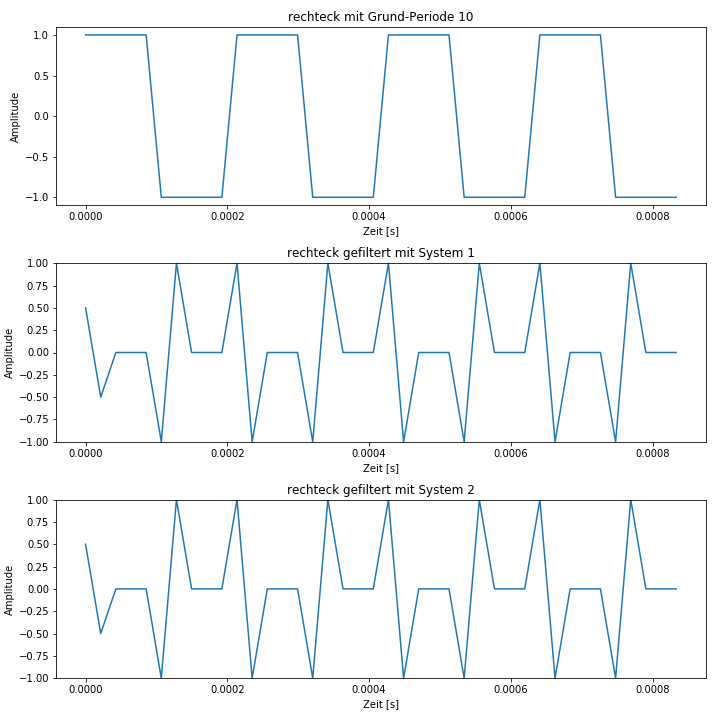
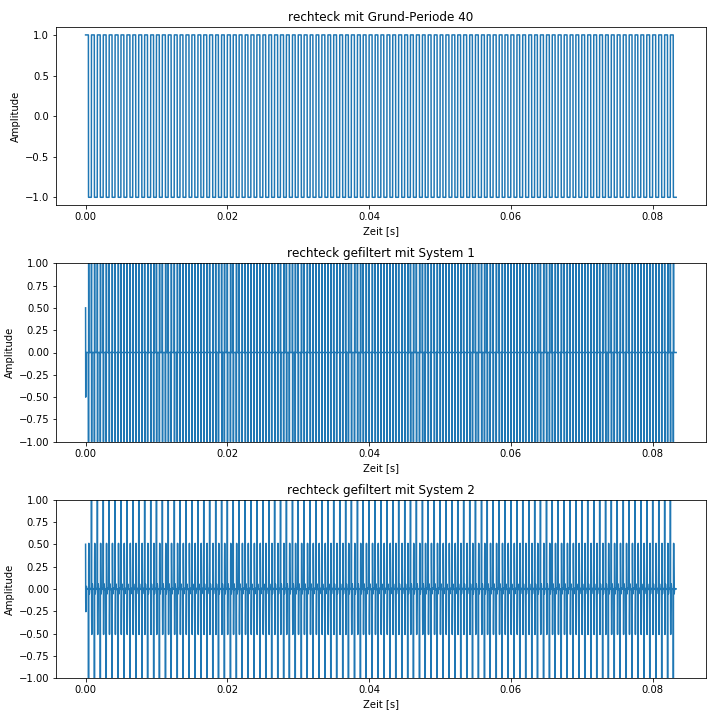
minor changes

diff --git a/aufgabe_2_filter_signals.py b/aufgabe_2_filter_signals.py
@@ -84,14 +84,14 @@ sprache_filtered_system_2 = scipy.signal.lfilter(b2,a2,sprache)
 
 #play audio one after the other
 #uncomment to play the audio
-sd.play(musik_filtered_system_1, musik_sr)
-sd.wait()
-sd.play(musik_filtered_system_2, musik_sr)
-sd.wait()
-sd.play(sprache_filtered_system_1, sprache_sr)
-sd.wait()
-sd.play(sprache_filtered_system_2, sprache_sr)
-sd.wait()
+#sd.play(musik_filtered_system_1, musik_sr)
+#sd.wait()
+#sd.play(musik_filtered_system_2, musik_sr)
+#sd.wait()
+#sd.play(sprache_filtered_system_1, sprache_sr)
+#sd.wait()
+#sd.play(sprache_filtered_system_2, sprache_sr)
+#sd.wait()
 
 
 #%%plot Musik
@@ -145,16 +145,16 @@ plt.savefig('sprache_filtered.png')
 #%%sinus
 
 amplitude = 1
-sr = 48000
-grundperiode = 10
+sr = 16000
+grundperiode = 40
 #signallaenge in sekunden fuer 4 perioden
-signallaenge = (4*grundperiode)/sr
+signallaenge = (100*grundperiode)/sr
 
 signale_zeit = np.linspace(0,signallaenge, num=signallaenge*sr)
 
 sinus = signalgenerator("sinus", amplitude, sr, grundperiode, signallaenge)
 sinus_gefiltert_system1 = scipy.signal.lfilter(b1,a1,sinus)
-sinus_gefiltert_system2 = scipy.signal.lfilter(b1,a1,sinus)
+sinus_gefiltert_system2 = scipy.signal.lfilter(b2,a2,sinus)
 
 plt.figure(figsize=(10,10))
 plt.subplot(3,1,1)
@@ -183,7 +183,7 @@ plt.savefig('aufgabe_2_sinus_filtered.png')
 
 rechteck = signalgenerator("rechteck", amplitude, sr, grundperiode, signallaenge)
 rechteck_gefiltert_system1 = scipy.signal.lfilter(b1,a1,rechteck)
-rechteck_gefiltert_system2 = scipy.signal.lfilter(b1,a1,rechteck)
+rechteck_gefiltert_system2 = scipy.signal.lfilter(b2,a2,rechteck)
 
 plt.figure(figsize=(10,10))
 plt.subplot(3,1,1)
@@ -212,7 +212,7 @@ plt.savefig('aufgabe_2_rechteck_filtered.png')
 
 saegezahn = signalgenerator("saegezahn", amplitude, sr, grundperiode, signallaenge)
 saegezahn_gefiltert_system1 = scipy.signal.lfilter(b1,a1,saegezahn)
-saegezahn_gefiltert_system2 = scipy.signal.lfilter(b1,a1,saegezahn)
+saegezahn_gefiltert_system2 = scipy.signal.lfilter(b2,a2,saegezahn)
 
 plt.figure(figsize=(10,10))
 plt.subplot(3,1,1)
@@ -241,7 +241,7 @@ plt.savefig('aufgabe_2_saegezahn_filtered.png')
 
 dreieck = signalgenerator("dreieck", amplitude, sr, grundperiode, signallaenge)
 dreieck_gefiltert_system1 = scipy.signal.lfilter(b1,a1,dreieck)
-dreieck_gefiltert_system2 = scipy.signal.lfilter(b1,a1,dreieck)
+dreieck_gefiltert_system2 = scipy.signal.lfilter(b2,a2,dreieck)
 
 plt.figure(figsize=(10,10))
 plt.subplot(3,1,1)
@@ -265,3 +265,50 @@ plt.ylim([-1,1])
 plt.title('dreieck gefiltert mit System 2')
 plt.tight_layout()
 plt.savefig('aufgabe_2_dreieck_filtered.png')
+
+
+#%%play audio
+
+sinus = signalgenerator("sinus", amplitude, sr, grundperiode, 2)
+sinus_gefiltert_system1 = scipy.signal.lfilter(b1,a1,sinus)
+sinus_gefiltert_system2 = scipy.signal.lfilter(b2,a2,sinus)
+
+dreieck = signalgenerator("dreieck", amplitude, sr, grundperiode, 2)
+dreieck_gefiltert_system1 = scipy.signal.lfilter(b1,a1,dreieck)
+dreieck_gefiltert_system2 = scipy.signal.lfilter(b2,a2,dreieck)
+
+saegezahn = signalgenerator("saegezahn", amplitude, sr, grundperiode, 2)
+saegezahn_gefiltert_system1 = scipy.signal.lfilter(b1,a1,saegezahn)
+saegezahn_gefiltert_system2 = scipy.signal.lfilter(b2,a2,saegezahn)
+
+rechteck = signalgenerator("rechteck", amplitude, sr, grundperiode, 2)
+rechteck_gefiltert_system1 = scipy.signal.lfilter(b1,a1,rechteck)
+rechteck_gefiltert_system2 = scipy.signal.lfilter(b2,a2,rechteck)
+
+
+#play audio one after the other
+#uncomment to play the audio
+#sd.play(sinus, sr)
+#sd.wait()
+#sd.play(sinus_gefiltert_system1, sr)
+#sd.wait()
+#sd.play(sinus_gefiltert_system2, sr)
+#sd.wait()
+#sd.play(dreieck, sr)
+#sd.wait()
+#sd.play(dreieck_gefiltert_system1, sr)
+#sd.wait()
+#sd.play(dreieck_gefiltert_system2, sr)
+#sd.wait()
+#sd.play(saegezahn, sr)
+#sd.wait()
+#sd.play(saegezahn_gefiltert_system1, sr)
+#sd.wait()
+#sd.play(saegezahn_gefiltert_system2, sr)
+#sd.wait()
+#sd.play(rechteck, sr)
+#sd.wait()
+#sd.play(rechteck_gefiltert_system1, sr)
+#sd.wait()
+#sd.play(rechteck_gefiltert_system2, sr)
+#sd.wait()
